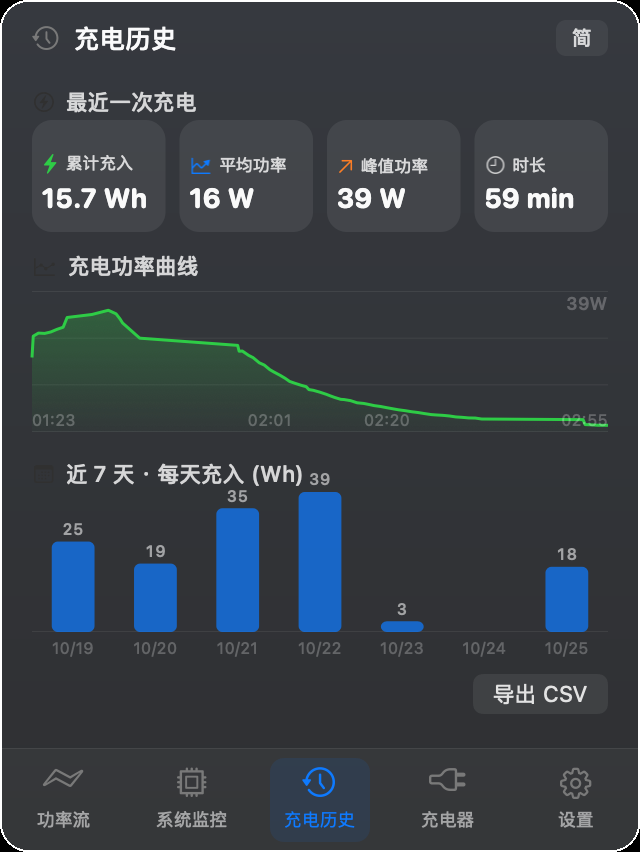
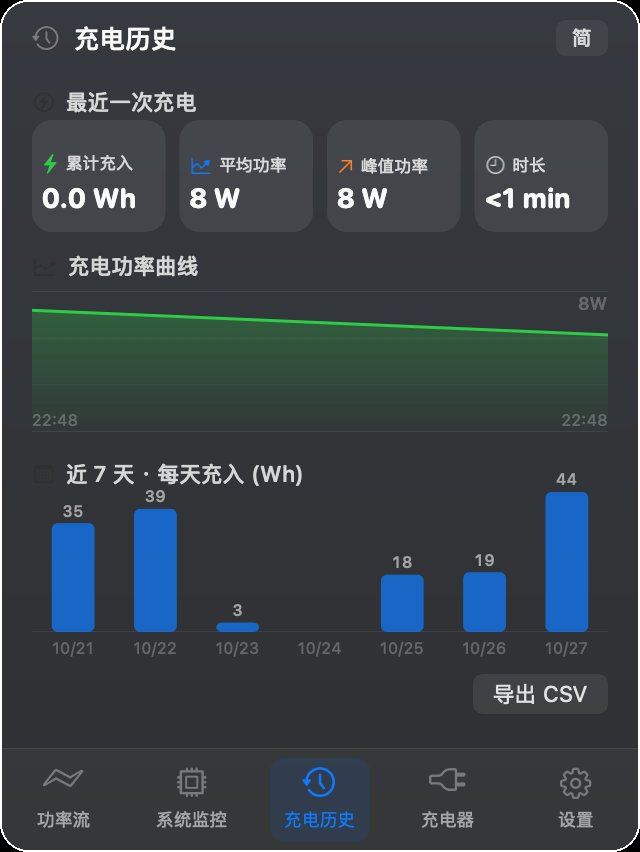
fix(power): 充电方向反了；墙插拿的是适配器合约值
实机查出来的四处：

- 44% 插着 30W 头，电流 +6.1W 往电池灌，系统报 IsCharging=0，
  旧代码信 flag → 画成'电池输出'、状态写未在充电。改按电流符号判方向，
  flag 只在电流≈0 时参考（满电静置才不会闪）
- PDTR = VD0R×ID0R = 19.6V×1.425A = 27.9W，加不加负载都不动，是 PD 合约值。
  当墙插用导致'墙插常年 27.9'，系统只能反推，电池每 30 秒一跳 10W 系统跟着跳。
  改成 墙插 = 系统 + 电池，系统直取 PSTR（6W→23W 随负载），三个数恒等
- 遥测 BatteryPower 会 uint64 回绕成 1.8e16，超量程/NaN/负 PSTR 全部挡掉
- 8 点均值(16 秒窗口)换指数平滑，插拔重置；预计充满自己按剩余容量÷功率算
- --derive-test 换成 14 条断言，覆盖溢出、方向、恒等
- 版本 2.1.7

diff --git a/Sources/Power.swift b/Sources/Power.swift
@@ -29,11 +29,14 @@ struct PowerSnapshot {
     var timestamp = Date()
 
 
-    /// 系统功耗。插着电时取「墙插 − 电池」的残差，保证图里 墙插 = 系统 + 电池 永远对得上；
-    /// PSTR 是瞬时采样，编译这种负载下会比残差高 6W，三条数并排就自相矛盾了。
+    /// 系统功耗。直接信 PSTR（实测随负载 6W→23W，整机口径），
+    /// 墙插反过来由它推出（wall = 系统 + 电池），所以三个数永远自洽。
+    /// 早先用「墙插 − 电池」的残差当系统：电池的 SBS 每 30 秒才更新一次、
+    /// 一跳 10W，残差就跟着跳 10W，看着像数据源坏了。
     var systemUsageW: Double {
-        PowerMath.pickSystem(wall: wallW, battery: batteryW, draining: batteryDraining,
-                             plugged: isPluggedIn, measured: systemLoadW, hasBattery: hasBattery)
+        if systemLoadW > 0.2 { return systemLoadW }
+        if hasBattery { return batteryW }      // PSTR 读不到：放电时电池就是系统
+        return 0
     }
     var batteryChargeW: Double { isCharging ? batteryW : 0 }
     var batteryDischargeW: Double { isCharging ? 0 : batteryW }
@@ -48,6 +51,8 @@ struct PowerSnapshot {
         return .charging          // 插着但静置（电量满、没有净流入）
     }
     var statusTextKey: Tri {
+        // 100% 还在涓流：macOS 会报 IsCharging=1，但它已经满了
+        if isCharging && percent >= 100 && batteryW < 1 { return S.full }
         if isCharging { return S.charging }
         if flowMode == .supplementing { return S.supplementShort }
         if isPluggedIn { return percent >= 99 ? S.full : S.plugged }
@@ -211,28 +216,28 @@ final class Sampler {
         //   电池 = 顶层 BatteryPower（正充负放）→ Amperage×Voltage → 遥测
         //   系统 = SMC PSTR → 遥测 SystemLoad
         //   墙插 = SMC PDTR → 遥测 SystemPowerIn → 系统 ± 电池
-        let battTop = (dict["BatteryPower"] as? NSNumber)?.int64Value ?? 0
         let amp = (dict["Amperage"] as? NSNumber)?.doubleValue ?? 0
         let volt = (dict["Voltage"] as? NSNumber)?.doubleValue ?? 0
-        var battMW = Double(battTop)
-        if abs(battMW) < 200 { battMW = amp * volt / 1000 }              // mW，两者都带符号
-        if abs(battMW) < 200 {
-            let raw = (tel["BatteryPower"] as? NSNumber)?.uint64Value ?? 0
-            battMW = Double(Int64(bitPattern: raw))
-        }
-        snap.batteryW = abs(battMW) / 1000
-        snap.batteryDraining = battMW < 0     // 负值 = 电池在放电
+        let battTopW = (dict["BatteryPower"] as? NSNumber).map { $0.doubleValue / 1000 }
+        let battAmpW: Double? = (amp != 0 && volt != 0) ? amp * volt / 1_000_000 : nil
+        // 遥测这块可能整块停更、也可能溢出（uint64 回绕成 1.8e16），所以放最后一级
+        let telRaw = (tel["BatteryPower"] as? NSNumber)?.uint64Value
+        let battTelW = telRaw.map { Double(Int64(bitPattern: $0)) / 1000 }
+        let signedBatW = PowerMath.pickBattery(top: battTopW, ampereVolt: battAmpW, telemetry: battTelW) ?? 0
+
+        let state = PowerMath.chargeState(signedBatteryW: signedBatW,
+                                          flag: dict["IsCharging"] as? Bool ?? false)
+        snap.isCharging = state.charging
+        snap.batteryDraining = state.draining
+        snap.batteryW = abs(signedBatW)
         snap.adapterLossW = telMW("AdapterEfficiencyLoss") / 1000
         snap.isPluggedIn = dict["ExternalConnected"] as? Bool ?? false
-        // IsCharging 只说明"充电器在线"，电池实际可能在放电（充电器功率不够或电量已满）
-        snap.isCharging = (dict["IsCharging"] as? Bool ?? false) && !snap.batteryDraining
 
-        let smcSys = SMCPower.read("PSTR")?.value
-        let smcWall = SMCPower.read("PDTR")?.value
-        if let s = smcSys, s > 0.5 { snap.systemLoadW = s } else { snap.systemLoadW = telMW("SystemLoad") / 1000 }
-        snap.wallW = PowerMath.pickWall(smc: smcWall, telemetry: telMW("SystemPowerIn") / 1000,
-                                        plugged: snap.isPluggedIn, system: snap.systemLoadW,
-                                        battery: snap.batteryW, draining: snap.batteryDraining)
+        // 系统功耗：PSTR（实测随 CPU 负载 6W→23W，是整机口径）。
+        // 它偶发报 -4.3W / 瞬时尖峰，读不到就沿用上一次的好值，别退回慢半拍的遥测
+        if let p = PowerMath.sanePositive(SMCPower.read("PSTR")?.value) { lastSystemW = p }
+        let telLoad = PowerMath.sanePositive(telMW("SystemLoad") / 1000)
+        snap.systemLoadW = lastSystemW ?? telLoad ?? 0
         snap.percent = (dict["CurrentCapacity"] as? NSNumber)?.intValue ?? 0
         snap.cycleCount = (dict["CycleCount"] as? NSNumber)?.intValue ?? 0
         snap.timeToFull = (dict["AvgTimeToFull"] as? NSNumber)?.intValue ?? 0
@@ -250,16 +255,37 @@ final class Sampler {
         snap.notChargingReason = (cd["NotChargingReason"] as? NSNumber)?.intValue ?? 0
         snap.thermallyLimited = (cd["TimeChargingThermallyLimited"] as? NSNumber)?.intValue ?? 0
 
-        // 移动平均，避免数字乱跳
-        snap.wallW = sm.smooth("wall", snap.wallW)
-        snap.systemLoadW = sm.smooth("load", snap.systemLoadW)
-        snap.batteryW = sm.smooth("bat", snap.batteryW)
+        // 平滑：系统跟负载要快（0.55），电池的 SBS 30 秒才更新一次、一跳 10W，
+        // 慢了才能在界面上走成斜坡而不是台阶
+        if !snap.isPluggedIn || lastPlugged != snap.isPluggedIn { sm.reset() }
+        lastPlugged = snap.isPluggedIn
+        snap.systemLoadW = sm.smooth("sys", snap.systemLoadW)
+        snap.batteryW = sm.smooth("bat", snap.batteryW, alpha: 0.3)
+        // 墙插放在最后：它就是系统 + 电池，三个数摆一起永远对得上
+        snap.wallW = PowerMath.pickWall(contract: SMCPower.read("PDTR")?.value,
+                                        telemetry: telMW("SystemPowerIn") / 1000,
+                                        plugged: snap.isPluggedIn,
+                                        system: snap.systemLoadW,
+                                        battery: snap.batteryW,
+                                        draining: snap.batteryDraining)
+
+        // 充满时间自己算：系统给的 AvgTimeToFull 在"没在充"时是垃圾（和 TimeRemaining 同值，
+        // 实测 43% 充着电却报 235 分钟）。剩余容量 ÷ 当前功率更实在
+        let cellV = volt / 1000
+        if snap.isCharging, snap.batteryW > 0.5, snap.fullCapacity > snap.currentCapacity, cellV > 5 {
+            let wh = Double(snap.fullCapacity - snap.currentCapacity) * cellV / 1000
+            snap.timeToFull = max(Int((wh / snap.batteryW * 60).rounded()), 1)
+        } else if !snap.isCharging && !snap.batteryDraining {
+            snap.timeToFull = 0
+        }
 
         let adapter = snap.isPluggedIn ? AdapterInfo.parse(dict["AdapterDetails"]) : nil
         return (snap, adapter)
     }
 
-    private let sm = Smoother(window: 8)
+    private let sm = Smoother()
+    private var lastSystemW: Double?      // PSTR 上一次的好值，坏样本时沿用
+    private var lastPlugged: Bool?        // 插拔瞬间重置平滑，免得从旧值慢慢爬
     private var lastTemp: Double = 0
 
     private static func packTemperature() -> Double? {
@@ -411,18 +437,20 @@ final class Sampler {
 
 // MARK: - 平滑
 
+/// 指数平滑。原来用 8 点均值：一个坏样本要拖满 16 秒才走干净；
+/// 而电池的 SBS 每 30 秒才更新一次、一跳就是 10W，均值法在台阶前后各拖一半。
 final class Smoother {
-    private var buckets: [String: [Double]] = [:]
-    private let window: Int
-    init(window: Int) { self.window = window }
-    func smooth(_ key: String, _ v: Double) -> Double {
-        var arr = buckets[key] ?? []
-        arr.append(v)
-        if arr.count > window { arr.removeFirst(arr.count - window) }
-        buckets[key] = arr
-        return arr.reduce(0, +) / Double(arr.count)
+    private var state: [String: Double] = [:]
+    private let alpha: Double
+    init(alpha: Double = 0.55) { self.alpha = alpha }
+    func smooth(_ key: String, _ v: Double, alpha: Double? = nil) -> Double {
+        guard let last = state[key] else { state[key] = v; return v }
+        let a = alpha ?? self.alpha
+        let next = last + (v - last) * a
+        state[key] = next
+        return next
     }
-    func reset() { buckets.removeAll() }
+    func reset() { state.removeAll() }
 }
 
 // MARK: - 适配器解析
@@ -540,12 +568,46 @@ extension AdapterInfo {
 
 // 三个数怎么合成，抽成纯函数：没有真机也能断言（2.1.4 那次快充 0 W 就是这里出的）
 enum PowerMath {
-    /// 墙插功率：SMC → 遥测 → 系统 ± 电池
-    static func pickWall(smc: Double?, telemetry: Double, plugged: Bool,
+    /// 这个瓦数可不可信。遥测块的 BatteryPower 会 uint64 回绕成 1.8e16，
+    /// 顶层键偶尔也会缺，不挡在门口就会画出"18446744073709548 W"。
+    static func sane(_ v: Double?, limit: Double = 200) -> Double? {
+        guard let v, v.isFinite, abs(v) <= limit else { return nil }
+        return v
+    }
+
+    /// 正数才算读到了（PSTR 实测会蹦出 -4.3 W 这种负值）
+    static func sanePositive(_ v: Double?, limit: Double = 200) -> Double? {
+        guard let v = sane(v, limit: limit), v > 0.2 else { return nil }
+        return v
+    }
+
+    /// 电池功率（带符号，正 = 往电池里灌）。三级回退，每一级都要过校验
+    static func pickBattery(top: Double?, ampereVolt: Double?, telemetry: Double?) -> Double? {
+        for c in [top, ampereVolt, telemetry] {
+            if let v = sane(c) { return v }
+        }
+        return nil
+    }
+
+    /// 充/放电方向。电流符号比 IsCharging 可靠：插着 30W 头充到 43% 时
+    /// 系统照样报 IsCharging=0，但电流是 +865mA（确实在充），按 flag 画就把方向画反了。
+    static func chargeState(signedBatteryW: Double, flag: Bool) -> (charging: Bool, draining: Bool) {
+        let draining = signedBatteryW < -0.5
+        let charging = signedBatteryW > 0.5 || (flag && !draining)
+        return (charging, draining)
+    }
+
+    /// 墙插功率：插着电就是「系统 + 电池」，三个数永远自洽。
+    /// PDTR 不是实时读数——实测 19.6V×1.425A=27.9W，加不加 CPU 负载都不动，
+    /// 它是 PD 合约值，只能当兜底。
+    static func pickWall(contract: Double?, telemetry: Double?, plugged: Bool,
                          system: Double, battery: Double, draining: Bool) -> Double {
-        if plugged, let s = smc, s > 1 { return s }
-        if telemetry > 0.5 || !plugged { return telemetry }
-        return max(system + (draining ? -battery : battery), 0)
+        guard plugged else { return 0 }
+        let sum = system + (draining ? -battery : battery)
+        if system > 0.2, sum > 0.3 { return sum }
+        if let c = sane(contract, limit: 400) { return c }
+        if let t = sane(telemetry, limit: 400) { return t }
+        return max(sum, 0)
     }
 
     /// 系统功耗：插电时取「墙插 − 电池」的残差，保证 墙插 = 系统 + 电池。

diff --git a/Sources/main.swift b/Sources/main.swift
@@ -215,27 +215,30 @@ final class AppDelegate: NSObject, NSApplicationDelegate {
                 if !ok { fails += 1 }
                 print("\(ok ? "✓" : "✗") \(name): \(String(format: "%.2f", got)) (期望 \(String(format: "%.2f", want)))")
             }
-            // 1. 60W 快充：SMC 读到墙插 55.6、电池吃 44.3 → 系统应剩 11.3
-            let w1 = PowerMath.pickWall(smc: 55.6, telemetry: 0, plugged: true, system: 10.5, battery: 44.3, draining: false)
-            near("快充·墙插", w1, 55.6)
-            near("快充·系统", PowerMath.pickSystem(wall: w1, battery: 44.3, draining: false, plugged: true, measured: 10.5, hasBattery: true), 11.3)
-            // 2. 遥测停更 + SMC 读不到：不能是 0，要拼成 系统 + 电池
-            let w2 = PowerMath.pickWall(smc: nil, telemetry: 0, plugged: true, system: 10.5, battery: 44.3, draining: false)
-            near("遥测停更·墙插", w2, 54.8)
-            // 3. 弱充电器：充电器 2.4W，电池再出 6.8W，系统共 9.2W
-            let w3 = PowerMath.pickWall(smc: 2.4, telemetry: 2.4, plugged: true, system: 9.2, battery: 6.8, draining: true)
-            near("补充供电·墙插", w3, 2.4)
-            near("补充供电·系统", PowerMath.pickSystem(wall: w3, battery: 6.8, draining: true, plugged: true, measured: 9.2, hasBattery: true), 9.2)
-            // 4. 没插电：墙插 0，系统看实测
-            let w4 = PowerMath.pickWall(smc: 0, telemetry: 0, plugged: false, system: 11.3, battery: 8.9, draining: true)
-            near("放电·墙插", w4, 0)
-            near("放电·系统=电池", PowerMath.pickSystem(wall: w4, battery: 8.9, draining: true, plugged: false, measured: 11.3, hasBattery: true), 8.9)
-            // 5. 满电涓流：墙插几乎全给系统
-            near("涓流·系统", PowerMath.pickSystem(wall: 15.7, battery: 0.1, draining: false, plugged: true, measured: 15.6, hasBattery: true), 15.6)
-            near("台式机·系统", PowerMath.pickSystem(wall: 0, battery: 0, draining: false, plugged: true, measured: 17.2, hasBattery: false), 17.2)
-            // 6. SMC 读到 0.9W（低于可信线）+ 遥测也是 0：退回拼装，不能显示 0.9
-            let w6 = PowerMath.pickWall(smc: 0.9, telemetry: 0, plugged: true, system: 10.0, battery: 2.0, draining: false)
-            near("弱信号·墙插", w6, 12.0)
+            // 1. 电池取数：顶层可信就用顶层；顶层缺了才用 Amperage×Voltage
+            near("电池·顶层优先", PowerMath.pickBattery(top: 44.3, ampereVolt: 10.0, telemetry: 21.3) ?? -1, 44.3)
+            near("电池·缺顶层回退", PowerMath.pickBattery(top: nil, ampereVolt: 10.01, telemetry: 21.3) ?? -1, 10.01)
+            // 2. 遥测溢出（uint64 回绕成 1.8e16）和 NaN 必须当没读到，不能画到界面上
+            near("遥测溢出·丢弃", PowerMath.pickBattery(top: nil, ampereVolt: nil, telemetry: 1.8446744e16) ?? -1, -1)
+            near("负 PSTR·丢弃", PowerMath.sanePositive(-4.3) ?? -1, -1)
+            near("超量程·丢弃", PowerMath.sane(1.8e16) ?? -1, -1)
+
+            // 3. 充电方向：实测 43% 插着 30W 头，IsCharging=0 但电流 +6.3W
+            near("方向·flag=0 但电流为正", PowerMath.chargeState(signedBatteryW: 6.3, flag: false).charging ? 1 : 0, 1)
+            near("方向·电流为负 仍在放", PowerMath.chargeState(signedBatteryW: -6.3, flag: true).draining ? 1 : 0, 1)
+            near("方向·电流为负 不算充", PowerMath.chargeState(signedBatteryW: -6.3, flag: true).charging ? 1 : 0, 0)
+            near("方向·满电涓流 flag=1", PowerMath.chargeState(signedBatteryW: 0.1, flag: true).charging ? 1 : 0, 1)
+            near("方向·满电静置", PowerMath.chargeState(signedBatteryW: 0.1, flag: false).charging ? 1 : 0, 0)
+
+            // 4. 墙插恒等式：墙插 = 系统 + 电池，永远对得上（PDTR 只是兜底）
+            near("恒等·插电", PowerMath.pickWall(contract: 27.9, telemetry: 25.7, plugged: true,
+                                                system: 6.1, battery: 12.6, draining: false), 18.7)
+            near("恒等·补充供电", PowerMath.pickWall(contract: 2.4, telemetry: 2.4, plugged: true,
+                                                 system: 9.2, battery: 6.8, draining: true), 2.4)
+            near("恒等·放电墙插为 0", PowerMath.pickWall(contract: 0, telemetry: 0, plugged: false,
+                                                    system: 8.9, battery: 8.9, draining: true), 0)
+            near("恒等·系统全读不到退回合约值", PowerMath.pickWall(contract: 27.9, telemetry: 25.7, plugged: true,
+                                                          system: 0, battery: 0, draining: false), 27.9)
             print(fails == 0 ? "全部通过" : "\(fails) 项不符")
             exit(fails == 0 ? 0 : 1)
         }

diff --git a/docs/en/index.html b/docs/en/index.html
@@ -4,9 +4,9 @@
 <meta charset="utf-8">
 <meta name="viewport" content="width=device-width,initial-scale=1">
 <meta name="color-scheme" content="light">
-<title>PowerPulse — macOS menu bar utility · 2.1.6</title>
+<title>PowerPulse — macOS menu bar utility · 2.1.7</title>
 <meta name="description" content="One sample per second. Wall power, system draw and charge power, as three values that must add up — so you can tell what your charger is actually delivering.">
-<meta property="og:title" content="PowerPulse — macOS menu bar utility · 2.1.6">
+<meta property="og:title" content="PowerPulse — macOS menu bar utility · 2.1.7">
 <meta property="og:description" content="One sample per second. Wall power, system draw and charge power, as three values that must add up — so you can tell what your charger is actually delivering.">
 <meta property="og:image" content="https://powerpulse.qijunhao.xyz/img/og.png">
 <meta property="og:type" content="website">
@@ -280,7 +280,7 @@ pre .c{color:#7f93ad}
 
 <header class="wrap hero">
   <div>
-    <span class="eyebrow"><i class="dot"></i>macOS menu bar utility · 2.1.6</span>
+    <span class="eyebrow"><i class="dot"></i>macOS menu bar utility · 2.1.7</span>
     <h1><span class="ln">Every watt,</span><span class="ln"><em>right in the menu bar.</em></span></h1>
     <p class="hero-sub">One sample per second. Wall power, system draw and charge power, as three values that must add up — so you can tell what your charger is actually delivering.</p>
     <div class="hero-cta">
@@ -387,10 +387,10 @@ pre .c{color:#7f93ad}
 <section class="sec" id="download"><div class="wrap">
   <div class="dl">
     <img src="../img/appicon.png" alt="PowerPulse icon">
-    <div><h2>Install once, live in the menu bar</h2><p>No installer — drag it into Applications. The build isn't notarized, so the first launch is blocked once.</p><div class="meta"><span>v2.1.6</span><span>.zip</span><span>682 KB</span><span>macOS 14.0+</span><span>Apple Silicon</span><span>MIT</span></div><p class="dl-note">Laptops get battery and charging; desktops (Mac Studio / mini / Pro) read system power from SMC.<br>Ad-hoc signed, not notarized: if Gatekeeper blocks the first launch, allow it in System Settings → Privacy & Security.</p>
+    <div><h2>Install once, live in the menu bar</h2><p>No installer — drag it into Applications. The build isn't notarized, so the first launch is blocked once.</p><div class="meta"><span>v2.1.7</span><span>.zip</span><span>683 KB</span><span>macOS 14.0+</span><span>Apple Silicon</span><span>MIT</span></div><p class="dl-note">Laptops get battery and charging; desktops (Mac Studio / mini / Pro) read system power from SMC.<br>Ad-hoc signed, not notarized: if Gatekeeper blocks the first launch, allow it in System Settings → Privacy & Security.</p>
       <div class="dl-cmd"><span>Or install with one line — Terminal downloads carry no quarantine flag, so nothing pops up:</span><code>curl -fsSL https://powerpulse.qijunhao.xyz/install.sh | bash</code></div></div>
     <div class="dl-cta">
-      <a class="btn btn-primary" href="https://github.com/777cola/PowerPulse/releases/latest">Download 2.1.6</a>
+      <a class="btn btn-primary" href="https://github.com/777cola/PowerPulse/releases/latest">Download 2.1.7</a>
     </div>
   </div>
   <details class="build" id="build" open>

diff --git a/docs/index.html b/docs/index.html
@@ -4,9 +4,9 @@
 <meta charset="utf-8">
 <meta name="viewport" content="width=device-width,initial-scale=1">
 <meta name="color-scheme" content="light">
-<title>PowerPulse — macOS 菜单栏工具 · 2.1.6</title>
+<title>PowerPulse — macOS 菜单栏工具 · 2.1.7</title>
 <meta name="description" content="每秒采样一次，把墙插输出、系统功耗、电池充电功率拆开显示。插上充电器那一刻，就知道这套充电套装到底跑了多少。">
-<meta property="og:title" content="PowerPulse — macOS 菜单栏工具 · 2.1.6">
+<meta property="og:title" content="PowerPulse — macOS 菜单栏工具 · 2.1.7">
 <meta property="og:description" content="每秒采样一次，把墙插输出、系统功耗、电池充电功率拆开显示。插上充电器那一刻，就知道这套充电套装到底跑了多少。">
 <meta property="og:image" content="https://powerpulse.qijunhao.xyz/img/og.png">
 <meta property="og:type" content="website">
@@ -280,7 +280,7 @@ pre .c{color:#7f93ad}
 
 <header class="wrap hero">
   <div>
-    <span class="eyebrow"><i class="dot"></i>macOS 菜单栏工具 · 2.1.6</span>
+    <span class="eyebrow"><i class="dot"></i>macOS 菜单栏工具 · 2.1.7</span>
     <h1><span class="ln">菜单栏里，</span><span class="ln"><em>看清每一瓦。</em></span></h1>
     <p class="hero-sub">每秒采样一次，把墙插输出、系统功耗、电池充电功率拆开显示。插上充电器那一刻，就知道这套充电套装到底跑了多少。</p>
     <div class="hero-cta">
@@ -387,10 +387,10 @@ pre .c{color:#7f93ad}
 <section class="sec" id="download"><div class="wrap">
   <div class="dl">
     <img src="img/appicon.png" alt="PowerPulse icon">
-    <div><h2>装上，就一直在菜单栏里</h2><p>免安装器，拖进「应用程序」即可。没有 Apple 公证，首次打开会被系统拦一次。</p><div class="meta"><span>v2.1.6</span><span>.zip</span><span>682 KB</span><span>macOS 14.0+</span><span>Apple Silicon</span><span>MIT</span></div><p class="dl-note">笔记本看电池与充电；台式机（Mac Studio / mini / Pro）没有电池，整机功率从 SMC 读。<br>ad-hoc 签名、未公证：首次打开若被拦，去「系统设置 → 隐私与安全性 → 仍要打开」。</p>
+    <div><h2>装上，就一直在菜单栏里</h2><p>免安装器，拖进「应用程序」即可。没有 Apple 公证，首次打开会被系统拦一次。</p><div class="meta"><span>v2.1.7</span><span>.zip</span><span>683 KB</span><span>macOS 14.0+</span><span>Apple Silicon</span><span>MIT</span></div><p class="dl-note">笔记本看电池与充电；台式机（Mac Studio / mini / Pro）没有电池，整机功率从 SMC 读。<br>ad-hoc 签名、未公证：首次打开若被拦，去「系统设置 → 隐私与安全性 → 仍要打开」。</p>
       <div class="dl-cmd"><span>或一行装好，终端下载不带隔离标记，不会弹窗：</span><code>curl -fsSL https://powerpulse.qijunhao.xyz/install.sh | bash</code></div></div>
     <div class="dl-cta">
-      <a class="btn btn-primary" href="https://github.com/777cola/PowerPulse/releases/latest">下载 2.1.6</a>
+      <a class="btn btn-primary" href="https://github.com/777cola/PowerPulse/releases/latest">下载 2.1.7</a>
     </div>
   </div>
   <details class="build" id="build" open>

diff --git a/tools/build_site.py b/tools/build_site.py
@@ -7,8 +7,8 @@
 import io, os, pathlib
 
 # 版本与包体积只在这里改一处
-SITE_VER = "2.1.6"
-ZIP_KB = "682"
+SITE_VER = "2.1.7"
+ZIP_KB = "683"
 
 ROOT = pathlib.Path(__file__).resolve().parent.parent
 DOCS = ROOT / "docs"

diff --git a/README.md b/README.md
@@ -218,6 +218,7 @@ SourcesWidget/
 
 | 版本 | 内容 |
 |---|---|
+| **2.1.7** | 修充电方向反了：插着电、电流明明往电池里灌，系统报 `IsCharging=0`，界面画成「电池输出」；墙插不再显示适配器合约值（19.6V×1.425A=27.9W，加不加负载都不动），改成「系统 + 电池」，三个数恒等；遥测 `BatteryPower` 的 uint64 回绕与负 `PSTR` 全部挡掉 |
 | **2.1.6** | 台式机也有功率流动画了：墙插 → 系统一条带动起来，跟笔记本同一套；「充电历史」「充电器」两个永远空的页不再显示，tab 栏只剩功率流 / 系统监控 / 设置 |
 | **2.1.5** | 修「累计充入」虚高：合盖一晚中间没有采样，旧算法把空档也按当时功率积分（同一段 25.8 Wh → 15.7 Wh）；修拔插头后功率曲线变「暂无记录」，改成画这次充电的整段；修改了采样间隔不生效；换包导致登录项失效会自愈 |
 | **2.1.4** | 修快充时报 0 W：`PowerTelemetryData` 在快充时会整块停更（墙插 0 W、系统 0.6 W），改问 SMC 的 `PDTR`/`PSTR` 和顶层 `BatteryPower`；插电时系统功耗取"墙插 − 电池"的残差，三个数永远对得上 |
